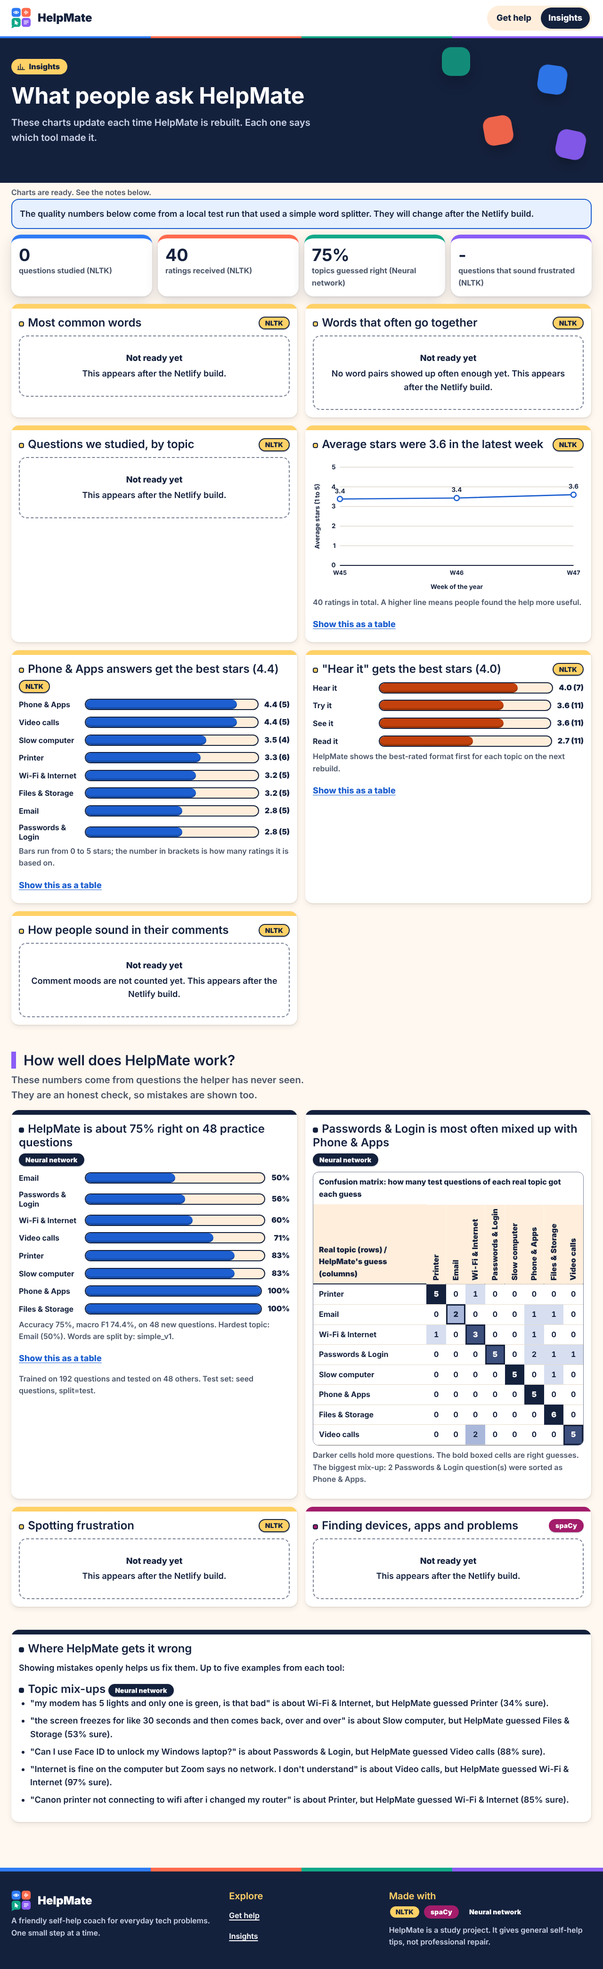
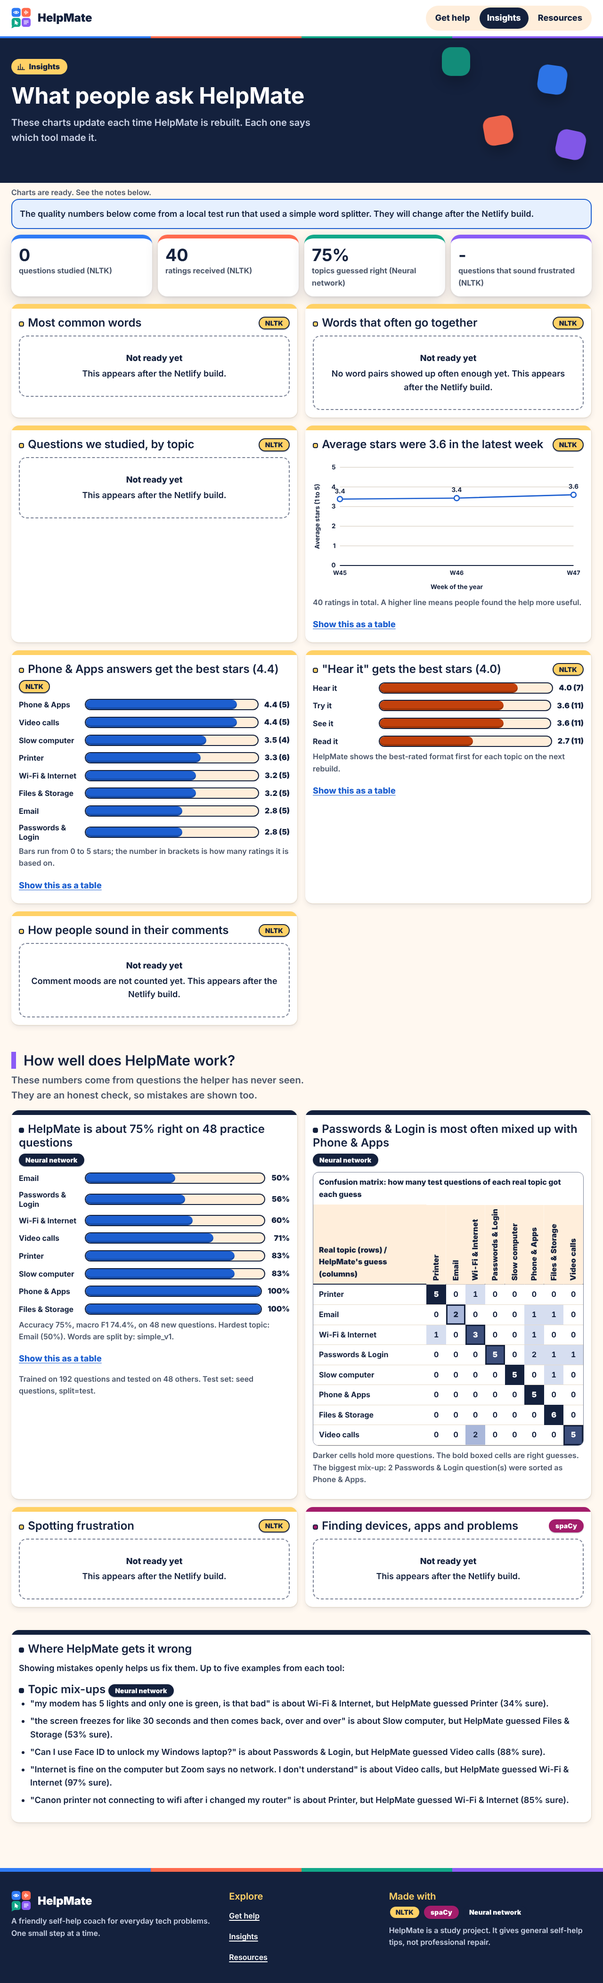
Add Resources page linked from header and footer on every page
Lists the live app, GitHub repo, step-by-step guide, and the official docs for NLTK,
spaCy, scikit-learn/NumPy, Pyodide, Netlify, MDN/WCAG, Claude Code agents and the data
and research sources. Built by Pixel with browser tests.

Claude-Session: https://claude.ai/code/session_01LuJWRc4hsCk5wDHzxBJqCj

diff --git a/site/resources.html b/site/resources.html
@@ -1,0 +1,179 @@
+<!doctype html>
+<html lang="en">
+<head>
+  <meta charset="utf-8">
+  <meta name="viewport" content="width=device-width, initial-scale=1">
+  <title>Resources - HelpMate</title>
+  <meta name="description" content="Every link HelpMate is built on: official docs, the GitHub repository and the guide.">
+  <link rel="icon" href="assets/brand/favicon.svg" type="image/svg+xml">
+  <link rel="preconnect" href="https://fonts.googleapis.com">
+  <link rel="preconnect" href="https://fonts.gstatic.com" crossorigin>
+  <link href="https://fonts.googleapis.com/css2?family=Fredoka:wght@500;600;700&amp;family=Nunito:wght@600;700;800;900&display=swap" rel="stylesheet">
+  <link rel="stylesheet" href="css/design-tokens.css">
+  <link rel="stylesheet" href="css/app.css">
+</head>
+<body>
+  <a class="skip-link" href="#main">Skip to main content</a>
+
+  <header class="site-header">
+    <div class="container container--max site-header__inner">
+      <a class="brand" href="index.html">
+        <img class="brand__mark" src="assets/brand/helpmate-mark.svg" alt="" width="44" height="44">
+        <span class="brand__name">HelpMate</span>
+      </a>
+      <nav class="site-nav" aria-label="Main">
+        <a class="nav-link" href="index.html">Get help</a>
+        <a class="nav-link" href="insights.html">Insights</a>
+        <a class="nav-link" href="resources.html" aria-current="page">Resources</a>
+      </nav>
+    </div>
+  </header>
+
+  <main id="main" tabindex="-1">
+    <div class="page-hero on-dark">
+      <div class="hero__art" aria-hidden="true">
+        <span class="tile tile--blue t1"></span><span class="tile tile--coral t2"></span><span class="tile tile--teal t3"></span><span class="tile tile--purple t4"></span>
+      </div>
+      <div class="container container--max page-head">
+        <p class="hero__eyebrow"><svg class="icon" aria-hidden="true" focusable="false" viewBox="0 0 24 24"><path d="M4 5h12a4 4 0 0 1 4 4v10H8a4 4 0 0 1-4-4zM8 9h8M8 13h6"/></svg>Resources</p>
+        <h1>Everything HelpMate is built on</h1>
+        <p class="page-head__lead">Every link the project relies on: the code, the guide and the official pages for each tool. All links open in a new tab.</p>
+      </div>
+    </div>
+    <div class="container container--max page-body">
+    <p class="res__note">The seed questions in HelpMate are original. We wrote them ourselves. The public datasets below are listed with their licenses.</p>
+    <div class="res-grid">
+      <section class="card res-card" aria-labelledby="res-0">
+        <header class="card__head"><h2 id="res-0" class="card__title">This project</h2></header>
+        <ul class="res__list">
+<li><a href="https://helpmate2300nlp.netlify.app" target="_blank" rel="noopener">Live app<span class="visually-hidden"> (opens in a new tab)</span></a><span class="res__desc">The running HelpMate site on Netlify.</span></li>
+<li><a href="https://github.com/angielira/2300CNLPFINALEXAM" target="_blank" rel="noopener">GitHub repository<span class="visually-hidden"> (opens in a new tab)</span></a><span class="res__desc">All the code, data and notes.</span></li>
+<li><a href="https://claude.ai/artifact/NTCut33EUofio3qY7ZNCXQ" target="_blank" rel="noopener">Step-by-step guide<span class="visually-hidden"> (opens in a new tab)</span></a><span class="res__desc">A walk-through of how the project was built.</span></li>
+<li><a href="https://github.com/angielira/2300CNLPFINALEXAM/blob/main/README.md" target="_blank" rel="noopener">README<span class="visually-hidden"> (opens in a new tab)</span></a><span class="res__desc">What HelpMate is and how to run it.</span></li>
+<li><a href="https://github.com/angielira/2300CNLPFINALEXAM/blob/main/docs/README.md" target="_blank" rel="noopener">Research index<span class="visually-hidden"> (opens in a new tab)</span></a><span class="res__desc">The list of research notes in docs/.</span></li>
+<li><a href="https://github.com/angielira/2300CNLPFINALEXAM/blob/main/docs/expert-roster.md" target="_blank" rel="noopener">Expert roster<span class="visually-hidden"> (opens in a new tab)</span></a><span class="res__desc">Who is on the team and what each expert does.</span></li>
+<li><a href="https://github.com/angielira/2300CNLPFINALEXAM/blob/main/docs/agent-brains.md" target="_blank" rel="noopener">Agent brains<span class="visually-hidden"> (opens in a new tab)</span></a><span class="res__desc">How each agent gets its knowledge and skills.</span></li>
+<li><a href="https://github.com/angielira/2300CNLPFINALEXAM/blob/main/reports/nlp_quality.md" target="_blank" rel="noopener">NLP quality report<span class="visually-hidden"> (opens in a new tab)</span></a><span class="res__desc">How well the classifier, VADER and spaCy really do.</span></li>
+<li><a href="https://github.com/angielira/2300CNLPFINALEXAM/blob/main/CLAUDE.md" target="_blank" rel="noopener">CLAUDE.md<span class="visually-hidden"> (opens in a new tab)</span></a><span class="res__desc">The project rules every agent follows.</span></li>
+        </ul>
+      </section>
+      <section class="card res-card" aria-labelledby="res-1">
+        <header class="card__head"><h2 id="res-1" class="card__title">NLTK</h2><span class="badge badge--nltk" title="Made by NLTK">NLTK<span class="visually-hidden">, made by NLTK</span></span></header>
+        <ul class="res__list">
+<li><a href="https://www.nltk.org/" target="_blank" rel="noopener">NLTK home<span class="visually-hidden"> (opens in a new tab)</span></a><span class="res__desc">The Natural Language Toolkit main page.</span></li>
+<li><a href="https://www.nltk.org/api/nltk.tokenize.html" target="_blank" rel="noopener">Tokenize API<span class="visually-hidden"> (opens in a new tab)</span></a><span class="res__desc">Splits questions into words.</span></li>
+<li><a href="https://www.nltk.org/data.html" target="_blank" rel="noopener">Data and stopwords<span class="visually-hidden"> (opens in a new tab)</span></a><span class="res__desc">How NLTK data such as stopword lists is installed.</span></li>
+<li><a href="https://www.nltk.org/howto/sentiment.html" target="_blank" rel="noopener">VADER how-to<span class="visually-hidden"> (opens in a new tab)</span></a><span class="res__desc">Notice frustration in a question.</span></li>
+<li><a href="https://www.nltk.org/api/nltk.sentiment.vader.html" target="_blank" rel="noopener">VADER API<span class="visually-hidden"> (opens in a new tab)</span></a><span class="res__desc">Reference for the sentiment scorer.</span></li>
+<li><a href="https://www.nltk.org/howto/collocations.html" target="_blank" rel="noopener">Collocations how-to<span class="visually-hidden"> (opens in a new tab)</span></a><span class="res__desc">Find words that often go together.</span></li>
+<li><a href="https://www.nltk.org/api/nltk.probability.FreqDist.html" target="_blank" rel="noopener">FreqDist<span class="visually-hidden"> (opens in a new tab)</span></a><span class="res__desc">Counts the most common words.</span></li>
+<li><a href="https://www.nltk.org/api/nltk.stem.porter.html" target="_blank" rel="noopener">Porter stemmer<span class="visually-hidden"> (opens in a new tab)</span></a><span class="res__desc">Cuts words down to their stem.</span></li>
+        </ul>
+      </section>
+      <section class="card res-card" aria-labelledby="res-2">
+        <header class="card__head"><h2 id="res-2" class="card__title">spaCy</h2><span class="badge badge--spacy" title="Made by spaCy">spaCy<span class="visually-hidden">, made by spaCy</span></span></header>
+        <ul class="res__list">
+<li><a href="https://spacy.io/" target="_blank" rel="noopener">spaCy home<span class="visually-hidden"> (opens in a new tab)</span></a><span class="res__desc">Start here for the guides and API pages.</span></li>
+<li><a href="https://spacy.io/models/en" target="_blank" rel="noopener">English models<span class="visually-hidden"> (opens in a new tab)</span></a><span class="res__desc">The en_core_web_sm model HelpMate uses.</span></li>
+<li><a href="https://spacy.io/usage/linguistic-features" target="_blank" rel="noopener">Linguistic features<span class="visually-hidden"> (opens in a new tab)</span></a><span class="res__desc">Parts of speech, parsing and entities.</span></li>
+<li><a href="https://spacy.io/usage/rule-based-matching" target="_blank" rel="noopener">Rule-based matching<span class="visually-hidden"> (opens in a new tab)</span></a><span class="res__desc">Match patterns such as device names.</span></li>
+<li><a href="https://spacy.io/api/entityruler" target="_blank" rel="noopener">EntityRuler API<span class="visually-hidden"> (opens in a new tab)</span></a><span class="res__desc">Add our own devices, apps and error codes.</span></li>
+<li><a href="https://spacy.io/usage/visualizers" target="_blank" rel="noopener">Visualizers (displaCy)<span class="visually-hidden"> (opens in a new tab)</span></a><span class="res__desc">Show entities as highlighted text.</span></li>
+<li><a href="https://spacy.io/usage/processing-pipelines" target="_blank" rel="noopener">Processing pipelines<span class="visually-hidden"> (opens in a new tab)</span></a><span class="res__desc">How spaCy steps run in order.</span></li>
+        </ul>
+      </section>
+      <section class="card res-card" aria-labelledby="res-3">
+        <header class="card__head"><h2 id="res-3" class="card__title">Neural network</h2><span class="badge badge--nn" title="Made by Neural network">Neural network<span class="visually-hidden">, made by Neural network</span></span></header>
+        <ul class="res__list">
+<li><a href="https://scikit-learn.org/stable/modules/generated/sklearn.neural_network.MLPClassifier.html" target="_blank" rel="noopener">MLPClassifier<span class="visually-hidden"> (opens in a new tab)</span></a><span class="res__desc">The small neural network that sorts questions.</span></li>
+<li><a href="https://scikit-learn.org/stable/modules/generated/sklearn.feature_extraction.text.TfidfVectorizer.html" target="_blank" rel="noopener">TfidfVectorizer<span class="visually-hidden"> (opens in a new tab)</span></a><span class="res__desc">Turns words into numbers.</span></li>
+<li><a href="https://scikit-learn.org/stable/model_persistence.html" target="_blank" rel="noopener">Model persistence<span class="visually-hidden"> (opens in a new tab)</span></a><span class="res__desc">Saving a trained model.</span></li>
+<li><a href="https://scikit-learn.org/stable/modules/model_evaluation.html" target="_blank" rel="noopener">Model evaluation<span class="visually-hidden"> (opens in a new tab)</span></a><span class="res__desc">How we measure accuracy.</span></li>
+<li><a href="https://numpy.org/doc/stable/" target="_blank" rel="noopener">NumPy documentation<span class="visually-hidden"> (opens in a new tab)</span></a><span class="res__desc">The math library the browser classifier uses.</span></li>
+        </ul>
+      </section>
+      <section class="card res-card" aria-labelledby="res-4">
+        <header class="card__head"><h2 id="res-4" class="card__title">In-browser Python</h2></header>
+        <ul class="res__list">
+<li><a href="https://pyodide.org/" target="_blank" rel="noopener">Pyodide docs<span class="visually-hidden"> (opens in a new tab)</span></a><span class="res__desc">Python that runs inside the web page.</span></li>
+<li><a href="https://pyodide.org/en/stable/usage/packages-in-pyodide.html" target="_blank" rel="noopener">Packages in Pyodide<span class="visually-hidden"> (opens in a new tab)</span></a><span class="res__desc">Which libraries are available, such as NLTK and NumPy.</span></li>
+<li><a href="https://pyodide.org/en/stable/usage/loading-packages.html" target="_blank" rel="noopener">Loading packages<span class="visually-hidden"> (opens in a new tab)</span></a><span class="res__desc">How the page loads those libraries.</span></li>
+<li><a href="https://pyodide.org/en/stable/usage/file-system.html" target="_blank" rel="noopener">File system<span class="visually-hidden"> (opens in a new tab)</span></a><span class="res__desc">Where NLTK data is placed in the browser.</span></li>
+<li><a href="https://cdn.jsdelivr.net/pyodide/v314.0.8/full/" target="_blank" rel="noopener">Pyodide CDN build in use<span class="visually-hidden"> (opens in a new tab)</span></a><span class="res__desc">The exact Pyodide files HelpMate loads.</span></li>
+        </ul>
+      </section>
+      <section class="card res-card" aria-labelledby="res-5">
+        <header class="card__head"><h2 id="res-5" class="card__title">Netlify</h2></header>
+        <ul class="res__list">
+<li><a href="https://docs.netlify.com/build/configure-builds/file-based-configuration/" target="_blank" rel="noopener">File-based configuration<span class="visually-hidden"> (opens in a new tab)</span></a><span class="res__desc">What goes in netlify.toml.</span></li>
+<li><a href="https://docs.netlify.com/build/configure-builds/available-software-at-build-time/" target="_blank" rel="noopener">Software at build time<span class="visually-hidden"> (opens in a new tab)</span></a><span class="res__desc">Python version used for the build.</span></li>
+<li><a href="https://docs.netlify.com/manage/forms/setup" target="_blank" rel="noopener">Forms setup<span class="visually-hidden"> (opens in a new tab)</span></a><span class="res__desc">How the rating form is detected.</span></li>
+<li><a href="https://docs.netlify.com/manage/forms/submissions/" target="_blank" rel="noopener">Form submissions<span class="visually-hidden"> (opens in a new tab)</span></a><span class="res__desc">Where ratings are collected.</span></li>
+<li><a href="https://www.netlify.com/functions" target="_blank" rel="noopener">Functions overview<span class="visually-hidden"> (opens in a new tab)</span></a><span class="res__desc">Background on Netlify Functions.</span></li>
+<li><a href="https://docs.netlify.com/build/configure-builds/build-hooks/" target="_blank" rel="noopener">Build hooks<span class="visually-hidden"> (opens in a new tab)</span></a><span class="res__desc">Start a rebuild so ratings improve the app.</span></li>
+        </ul>
+      </section>
+      <section class="card res-card" aria-labelledby="res-6">
+        <header class="card__head"><h2 id="res-6" class="card__title">Web platform and accessibility</h2></header>
+        <ul class="res__list">
+<li><a href="https://developer.mozilla.org/en-US/docs/Web/API/Web_Speech_API" target="_blank" rel="noopener">Web Speech API<span class="visually-hidden"> (opens in a new tab)</span></a><span class="res__desc">Overview of speech in the browser.</span></li>
+<li><a href="https://developer.mozilla.org/en-US/docs/Web/API/SpeechSynthesis" target="_blank" rel="noopener">SpeechSynthesis<span class="visually-hidden"> (opens in a new tab)</span></a><span class="res__desc">Powers the Hear it Play, Pause and Stop buttons.</span></li>
+<li><a href="https://developer.mozilla.org/en-US/docs/Web/API/Window/localStorage" target="_blank" rel="noopener">localStorage<span class="visually-hidden"> (opens in a new tab)</span></a><span class="res__desc">Keeps your course progress on your device.</span></li>
+<li><a href="https://developer.mozilla.org/en-US/docs/Web/API/Web_Workers_API" target="_blank" rel="noopener">Web Workers<span class="visually-hidden"> (opens in a new tab)</span></a><span class="res__desc">Runs Python without freezing the page.</span></li>
+<li><a href="https://www.w3.org/WAI/WCAG22/Understanding/contrast-minimum.html" target="_blank" rel="noopener">WCAG 2.2 contrast<span class="visually-hidden"> (opens in a new tab)</span></a><span class="res__desc">Text must be easy to read.</span></li>
+<li><a href="https://www.w3.org/WAI/WCAG22/Understanding/target-size-minimum.html" target="_blank" rel="noopener">WCAG 2.2 target size<span class="visually-hidden"> (opens in a new tab)</span></a><span class="res__desc">Buttons must be big enough to tap.</span></li>
+<li><a href="https://fonts.google.com/specimen/Nunito" target="_blank" rel="noopener">Nunito font<span class="visually-hidden"> (opens in a new tab)</span></a><span class="res__desc">The body font.</span></li>
+<li><a href="https://fonts.googleapis.com/css2?family=Fredoka:wght@500;600;700&amp;family=Nunito:wght@600;700;800;900&amp;display=swap" target="_blank" rel="noopener">Fredoka and Nunito stylesheet<span class="visually-hidden"> (opens in a new tab)</span></a><span class="res__desc">The font files the site loads (headings and text).</span></li>
+        </ul>
+      </section>
+      <section class="card res-card" aria-labelledby="res-7">
+        <header class="card__head"><h2 id="res-7" class="card__title">Agent team</h2></header>
+        <ul class="res__list">
+<li><a href="https://code.claude.com/docs/en/sub-agents" target="_blank" rel="noopener">Claude Code subagents<span class="visually-hidden"> (opens in a new tab)</span></a><span class="res__desc">How the 16 specialist agents are defined.</span></li>
+<li><a href="https://code.claude.com/docs/en/skills" target="_blank" rel="noopener">Claude Code skills<span class="visually-hidden"> (opens in a new tab)</span></a><span class="res__desc">How agents load reusable skills.</span></li>
+        </ul>
+      </section>
+      <section class="card res-card" aria-labelledby="res-8">
+        <header class="card__head"><h2 id="res-8" class="card__title">Data and research</h2></header>
+        <ul class="res__list">
+<li><a href="https://huggingface.co/datasets/Tobi-Bueck/customer-support-tickets" target="_blank" rel="noopener">Customer support tickets (Hugging Face)<span class="visually-hidden"> (opens in a new tab)</span></a><span class="res__desc">The public ticket sample we learn from.</span></li>
+<li><a href="https://archive.org/details/stackexchange_20251231" target="_blank" rel="noopener">Stack Exchange data dump<span class="visually-hidden"> (opens in a new tab)</span></a><span class="res__desc">Real questions, if attribution rules are met.</span></li>
+<li><a href="https://huggingface.co/datasets/flymin/stackexchange_20260331" target="_blank" rel="noopener">Stack Exchange licensing notes<span class="visually-hidden"> (opens in a new tab)</span></a><span class="res__desc">License details for that data.</span></li>
+<li><a href="https://stackoverflow.com/help/licensing" target="_blank" rel="noopener">Stack Overflow licensing<span class="visually-hidden"> (opens in a new tab)</span></a><span class="res__desc">How shared content may be reused.</span></li>
+<li><a href="https://creativecommons.org/licenses/by-nc/4.0/" target="_blank" rel="noopener">CC BY-NC 4.0<span class="visually-hidden"> (opens in a new tab)</span></a><span class="res__desc">The license for the ticket dataset.</span></li>
+<li><a href="https://doi.org/10.1111/j.1539-6053.2009.01038.x" target="_blank" rel="noopener">Pashler et al. (2008)<span class="visually-hidden"> (opens in a new tab)</span></a><span class="res__desc">Learning styles: little evidence that matching helps.</span></li>
+<li><a href="https://doi.org/10.3389/fpsyg.2018.01538" target="_blank" rel="noopener">Aslaksen and Lorås (2018)<span class="visually-hidden"> (opens in a new tab)</span></a><span class="res__desc">A later test of the same idea.</span></li>
+<li><a href="https://doi.org/10.3389/feduc.2023.1147498" target="_blank" rel="noopener">Learning styles review (2023)<span class="visually-hidden"> (opens in a new tab)</span></a><span class="res__desc">A newer review of the evidence.</span></li>
+<li><a href="https://doi.org/10.1111/j.1467-9280.2006.01693.x" target="_blank" rel="noopener">Roediger and Karpicke (2006)<span class="visually-hidden"> (opens in a new tab)</span></a><span class="res__desc">Practice recall helps you remember.</span></li>
+<li><a href="https://pmc.ncbi.nlm.nih.gov/articles/PMC4477741/" target="_blank" rel="noopener">Brame and Biel (2015)<span class="visually-hidden"> (opens in a new tab)</span></a><span class="res__desc">Test-enhanced learning, explained simply.</span></li>
+        </ul>
+      </section>
+    </div>
+    </div>
+  </main>
+
+  <footer class="site-footer">
+    <div class="site-footer__stripe" aria-hidden="true"><span></span><span></span><span></span><span></span></div>
+    <div class="container container--max site-footer__grid">
+      <div class="site-footer__about">
+        <a class="brand brand--footer" href="index.html"><img class="brand__mark" src="assets/brand/helpmate-mark.svg" alt="" width="44" height="44"><span class="brand__name">HelpMate</span></a>
+        <p class="site-footer__note">A friendly self-help coach for everyday tech problems. One small step at a time.</p>
+      </div>
+      <nav class="site-footer__col" aria-label="Footer">
+        <h2 class="site-footer__heading">Explore</h2>
+        <ul class="site-footer__links">
+          <li><a href="index.html">Get help</a></li>
+          <li><a href="insights.html">Insights</a></li>
+          <li><a href="resources.html" aria-current="page">Resources</a></li>
+        </ul>
+      </nav>
+      <div class="site-footer__col">
+        <h2 class="site-footer__heading">Made with</h2>
+        <p class="site-footer__badges"><span class="badge badge--nltk">NLTK</span> <span class="badge badge--spacy">spaCy</span> <span class="badge badge--nn">Neural network</span></p>
+        <p class="site-footer__note">HelpMate is a study project. It gives general self-help tips, not professional repair.</p>
+      </div>
+    </div>
+  </footer>
+
+</body>
+</html>

diff --git a/site/css/app.css b/site/css/app.css
@@ -899,3 +899,15 @@ h2, .results__title, .answer__title { font-weight: 600; }
 .results__found .results__title { margin-top: 0; }
 .results__found-lead { margin: 0 0 var(--space-4, 1rem); color: var(--text-muted); }
 .results__question { margin-top: 0; }
+
+/* Resources page */
+.res__note { background: #fff; border: 2px dashed var(--line); border-radius: var(--radius-lg, 16px); padding: var(--space-3) var(--space-4); margin: 0 0 var(--space-4); font-weight: 700; color: var(--navy); }
+.res-grid { display: grid; grid-template-columns: minmax(0, 1fr); gap: var(--space-4); padding-bottom: var(--space-6); }
+.res__list { list-style: none; margin: 0; padding: 0; display: grid; gap: var(--space-2); }
+.res__list li { display: flex; flex-direction: column; gap: 2px; padding-block: 4px; overflow-wrap: anywhere; }
+.res__list a { font-weight: 800; color: #1D5FD0; text-decoration: underline; text-underline-offset: 3px; min-height: 24px; display: inline-block; }
+.res__list a:focus-visible { outline: 3px solid var(--navy); outline-offset: 2px; border-radius: 4px; }
+.res__desc { color: var(--text-muted); font-size: var(--fs-sm, .95rem); }
+.res-card .card__head { border-bottom: 0; padding-bottom: 0; }
+.res-card .card__title { color: var(--navy); font-size: var(--fs-lg); }
+@media (min-width: 52rem) { .res-grid { grid-template-columns: repeat(2, minmax(0, 1fr)); } }

diff --git a/site/index.html b/site/index.html
@@ -20,6 +20,7 @@
       <nav class="site-nav" aria-label="Main">
         <a class="nav-link" href="index.html" aria-current="page">Get help</a>
         <a class="nav-link" href="insights.html">Insights</a>
+        <a class="nav-link" href="resources.html">Resources</a>
       </nav>
     </div>
   </header>
@@ -200,6 +201,7 @@
         <ul class="site-footer__links">
           <li><a href="index.html">Get help</a></li>
           <li><a href="insights.html">Insights</a></li>
+          <li><a href="resources.html">Resources</a></li>
         </ul>
       </nav>
       <div class="site-footer__col">

diff --git a/site/insights.html b/site/insights.html
@@ -24,6 +24,7 @@
       <nav class="site-nav" aria-label="Main">
         <a class="nav-link" href="index.html">Get help</a>
         <a class="nav-link" href="insights.html" aria-current="page">Insights</a>
+        <a class="nav-link" href="resources.html">Resources</a>
       </nav>
     </div>
   </header>
@@ -174,6 +175,7 @@
         <ul class="site-footer__links">
           <li><a href="index.html">Get help</a></li>
           <li><a href="insights.html">Insights</a></li>
+          <li><a href="resources.html">Resources</a></li>
         </ul>
       </nav>
       <div class="site-footer__col">

diff --git a/tests/browser/test_resources.py b/tests/browser/test_resources.py
@@ -1,0 +1,68 @@
+"""Browser tests for resources.html and the Resources links on every page."""
+import pathlib
+
+import pytest
+
+ROOT = pathlib.Path(__file__).resolve().parents[2]
+SCREENS = ROOT / "reports" / "screens"
+PAGES = ["index.html", "insights.html", "resources.html"]
+
+
+@pytest.fixture
+def res(base_url, make_page):
+    page, errors = make_page()
+    page.goto(base_url + "/resources.html")
+    page.wait_for_load_state("networkidle")
+    return page, errors
+
+
+def test_loads_no_page_errors(res):
+    page, errors = res
+    assert page.locator("h1").count() == 1
+    assert errors == []
+
+
+def test_required_links_present(res):
+    page, _ = res
+    hrefs = page.eval_on_selector_all("main a", "els => els.map(a => a.href)")
+    assert "https://github.com/angielira/2300CNLPFINALEXAM" in hrefs
+    assert "https://claude.ai/artifact/NTCut33EUofio3qY7ZNCXQ" in hrefs
+    for host in ("nltk.org", "spacy.io", "pyodide", "netlify", "scikit-learn.org"):
+        assert any(host in h for h in hrefs), host
+
+
+def test_every_link_opens_safely(res):
+    page, _ = res
+    bad = page.eval_on_selector_all(
+        "main a", "els => els.filter(a => a.target !== '_blank' || !a.rel.includes('noopener')).map(a => a.href)")
+    assert bad == []
+
+
+@pytest.mark.parametrize("name", PAGES)
+def test_resources_link_in_header_and_footer(base_url, make_page, name):
+    page, errors = make_page()
+    page.goto(base_url + "/" + name)
+    for sel in ("header nav a[href='resources.html']", "footer a[href='resources.html']"):
+        link = page.locator(sel)
+        assert link.count() == 1, sel
+        assert link.is_visible(), sel
+        assert link.inner_text().strip() == "Resources"
+    cur = page.locator("a[href='resources.html'][aria-current='page']").count()
+    assert cur == (2 if name == "resources.html" else 0)
+    assert errors == []
+
+
+def test_no_horizontal_overflow_360(base_url, make_page):
+    page, _ = make_page(width=360, height=800)
+    page.goto(base_url + "/resources.html")
+    page.wait_for_load_state("networkidle")
+    assert page.evaluate("document.documentElement.scrollWidth <= window.innerWidth")
+
+
+@pytest.mark.parametrize("w,h", [(1440, 900), (390, 844)])
+def test_screenshots(base_url, make_page, w, h):
+    page, _ = make_page(width=w, height=h)
+    page.goto(base_url + "/resources.html")
+    page.wait_for_load_state("networkidle")
+    SCREENS.mkdir(parents=True, exist_ok=True)
+    page.screenshot(path=str(SCREENS / f"v3-resources-{w if w > 400 else 390}.png"), full_page=True)

diff --git a/README.md b/README.md
@@ -11,6 +11,8 @@ An optional 10-step mini-course per topic tracks your progress and awards a badg
 
 The whole site is static and runs on Netlify. There is no backend server and no database.
 
+- **Resources page:** `site/resources.html` (live at /resources.html) lists every link the project relies on: official docs, this repository and the guide.
+
 ## Which library does what
 
 | Library | What it does in HelpMate | Code | Where it runs |
